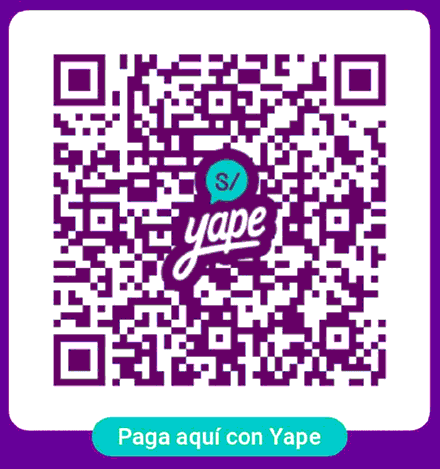
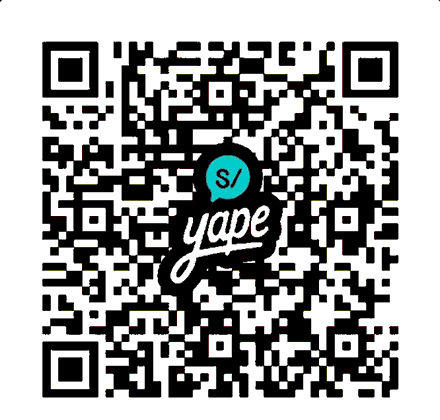
QR en negro y boton de WhatsApp despues del bloque de pago
- El QR pasa del morado de Yape a la tinta del sitio (#1b1512) sobre
  blanco. Negro sobre blanco es ademas el contraste que mejor leen los
  escaneres. Se conserva el turquesa del logo para que siga
  reconociendose como Yape.
- Recorte ajustado para excluir el morado exterior y el borde de la
  pastilla inferior. 440x420, 12 KB.
- En el carrito el orden pasa a: total, bloque de pago con QR, y despues
  el boton de finalizar pedido. La clienta ve como pagar antes de salir
  a WhatsApp.

diff --git a/index.html b/index.html
@@ -387,7 +387,7 @@ footer{background:var(--ivory-soft);border-top:1px solid var(--line);padding:5re
 .total-row{display:flex;justify-content:space-between;font-size:.95rem;margin-bottom:.4rem}
 .total-row.grand{font-size:1.15rem;font-weight:500;margin:.7rem 0 1.3rem}
 .total-row.grand span:last-child{font-family:var(--serif);font-size:1.5rem;color:var(--gold)}
-.checkout-btn{width:100%;justify-content:center;background:#25d366;color:#fff;display:flex;align-items:center;gap:.7rem;font-size:.72rem;letter-spacing:.26em;text-transform:uppercase;font-weight:500;padding:1.1rem;transition:background .35s}
+.checkout-btn{width:100%;margin-top:1rem;justify-content:center;background:#25d366;color:#fff;display:flex;align-items:center;gap:.7rem;font-size:.72rem;letter-spacing:.26em;text-transform:uppercase;font-weight:500;padding:1.1rem;transition:background .35s}
 .checkout-btn:hover{background:#1eb85a}
 .checkout-btn svg{width:18px;height:18px;fill:#fff}
 .ship-note{text-align:center;font-size:.7rem;color:var(--muted);margin-top:.9rem;letter-spacing:.06em}
@@ -753,16 +753,16 @@ footer{background:var(--ivory-soft);border-top:1px solid var(--line);padding:5re
   <div class="drawer-body" id="cartBody"></div>
   <div class="drawer-foot" id="cartFoot" style="display:none">
     <div class="total-row grand"><span>Total</span><span id="cartTotal">S/ 0.00</span></div>
-    <a class="checkout-btn" id="checkoutBtn" href="#" target="_blank" rel="noopener">
-      <svg viewBox="0 0 24 24"><path d="M12 2a10 10 0 00-8.6 15L2 22l5.2-1.4A10 10 0 1012 2zm4.6 12.1c-.3-.1-1.5-.7-1.7-.8-.2-.1-.4-.1-.6.1-.2.3-.6.8-.8 1-.1.2-.3.2-.5.1a6.7 6.7 0 01-3.3-2.9c-.3-.4.2-.4.6-1.3.1-.2 0-.4 0-.5l-.8-1.8c-.2-.5-.4-.4-.6-.4h-.5c-.2 0-.5.1-.7.3-.2.3-.9.9-.9 2.2s.9 2.5 1.1 2.7c.1.2 1.8 2.8 4.4 3.9 1.6.7 2.3.8 3.1.6.5-.1 1.5-.6 1.7-1.2.2-.6.2-1.1.1-1.2-.1-.1-.3-.2-.5-.3z"/></svg>
-      Finalizar pedido por WhatsApp
-    </a>
     <div class="pago">
-      <a class="qr" href="/assets/yape-qr.png" target="_blank" rel="noopener" title="Ampliar el QR"><img src="/assets/yape-qr.png" width="440" height="469" loading="lazy" decoding="async" alt="Código QR de Yape de Reina Scarlata"></a>
+      <a class="qr" href="/assets/yape-qr.png" target="_blank" rel="noopener" title="Ampliar el QR"><img src="/assets/yape-qr.png" width="440" height="420" loading="lazy" decoding="async" alt="Código QR de Yape de Reina Scarlata"></a>
       <span class="pago-t">Yape</span>
       <span class="pago-n">997 081 492</span>
       <span class="pago-d">Escanea el QR o yapea al número. A nombre de Elizabeth Cinthya Jimenez Matos. Mándanos la captura por WhatsApp y despachamos.</span>
     </div>
+    <a class="checkout-btn" id="checkoutBtn" href="#" target="_blank" rel="noopener">
+      <svg viewBox="0 0 24 24"><path d="M12 2a10 10 0 00-8.6 15L2 22l5.2-1.4A10 10 0 1012 2zm4.6 12.1c-.3-.1-1.5-.7-1.7-.8-.2-.1-.4-.1-.6.1-.2.3-.6.8-.8 1-.1.2-.3.2-.5.1a6.7 6.7 0 01-3.3-2.9c-.3-.4.2-.4.6-1.3.1-.2 0-.4 0-.5l-.8-1.8c-.2-.5-.4-.4-.6-.4h-.5c-.2 0-.5.1-.7.3-.2.3-.9.9-.9 2.2s.9 2.5 1.1 2.7c.1.2 1.8 2.8 4.4 3.9 1.6.7 2.3.8 3.1.6.5-.1 1.5-.6 1.7-1.2.2-.6.2-1.1.1-1.2-.1-.1-.3-.2-.5-.3z"/></svg>
+      Finalizar pedido por WhatsApp
+    </a>
     <p class="ship-note">En Lima también puedes pagar contra entrega.</p>
   </div>
 </aside>
